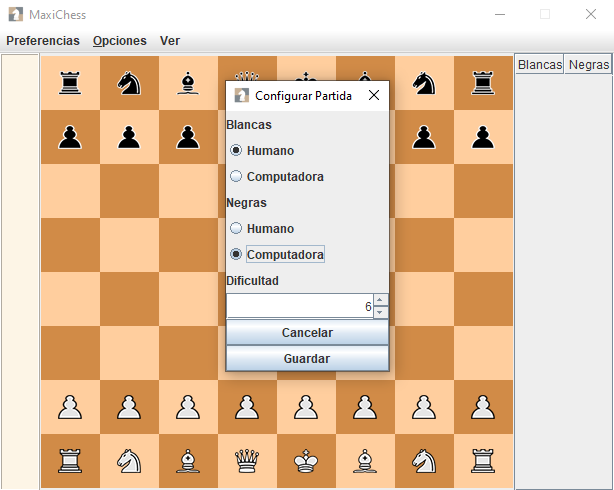
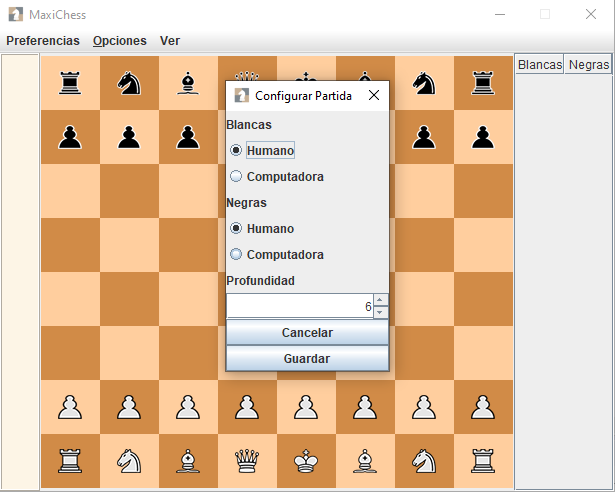
20210714

diff --git a/src/com/chess/gui/GameSetup.java b/src/com/chess/gui/GameSetup.java
@@ -51,7 +51,7 @@ class GameSetup extends JDialog {
         myPanel.add(blackHumanButton);
         myPanel.add(blackComputerButton);
 
-        this.searchDepthSpinner = addLabeledSpinner(myPanel, "Dificultad", new SpinnerNumberModel(6, 0, Integer.MAX_VALUE, 1));
+        this.searchDepthSpinner = addLabeledSpinner(myPanel, "Profundidad", new SpinnerNumberModel(6, 0, Integer.MAX_VALUE, 1));
 
         final JButton cancelButton = new JButton("Cancelar");
         final JButton okButton = new JButton("Guardar");
